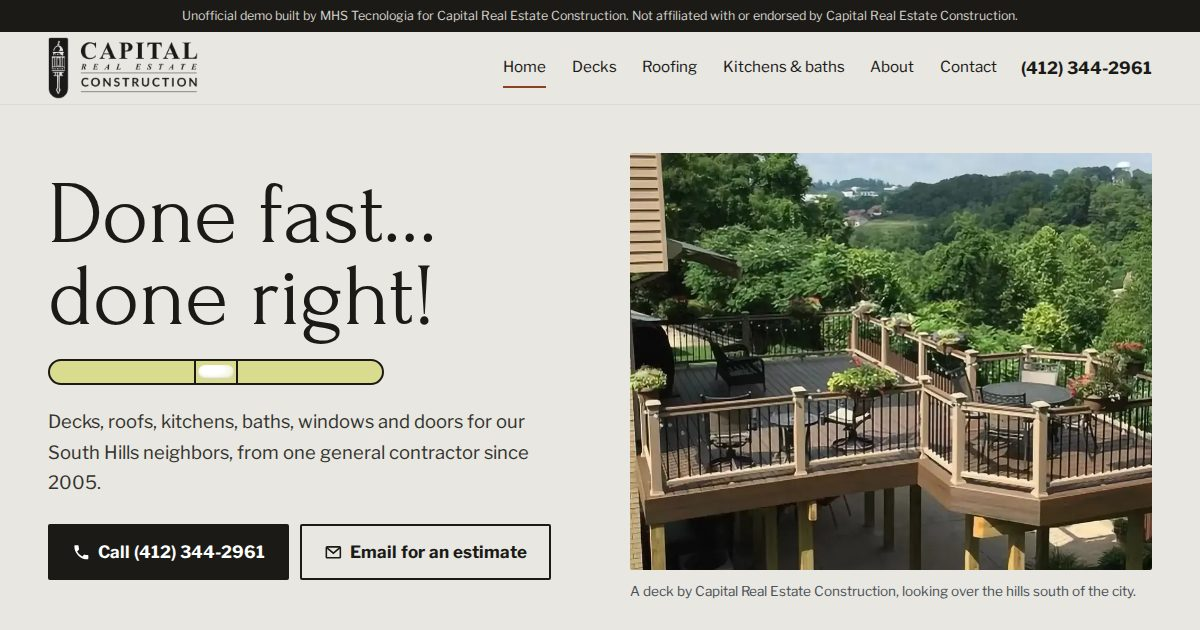
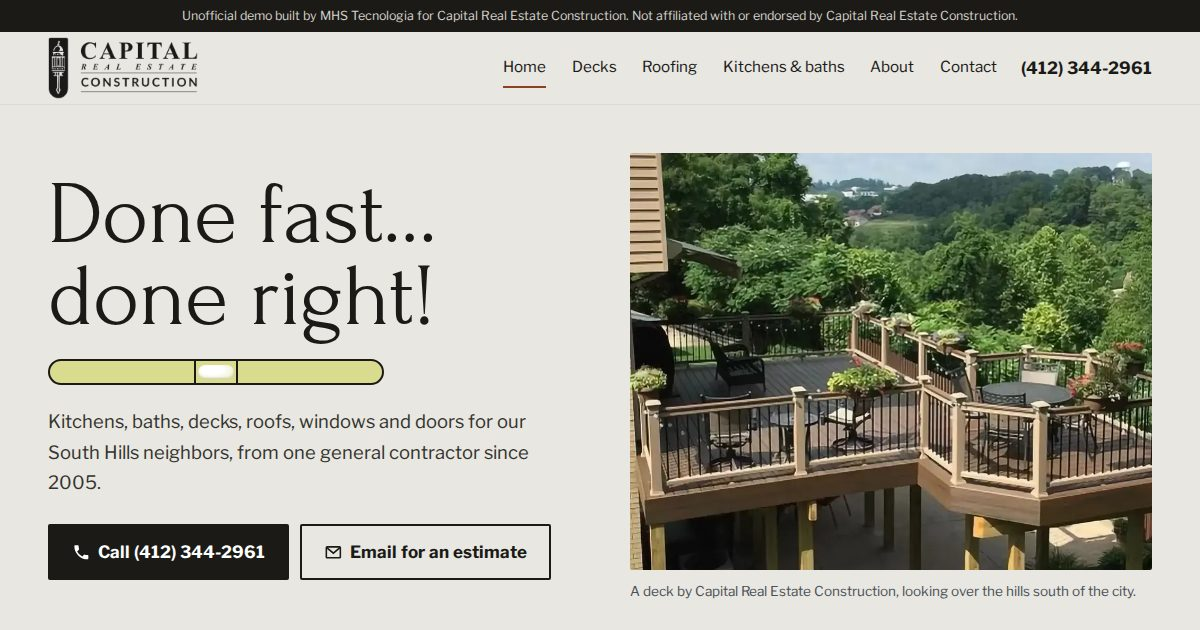
Previews: 79 ativos

Changed region(s): [[0.0308, 0.6635, 0.4317, 0.6937]]

diff --git a/capital-real-estate-construction-pittsburgh-pa/index.html b/capital-real-estate-construction-pittsburgh-pa/index.html
@@ -9,8 +9,8 @@
 <title>Capital Real Estate Construction | Decks, Roofing &amp; Remodeling, South Hills of Pittsburgh</title>
 <meta name="description" content="Decks, roofs, kitchens, baths, windows and doors for the South Hills of Pittsburgh. Done Fast… Done Right! Call (412) 344-2961.">
 <link rel="preload" as="font" type="font/woff2" href="fonts/forum.woff2" crossorigin>
-<link rel="preload" as="image" href="img/hero-m-800.webp" imagesrcset="img/hero-m-480.webp 480w, img/hero-m-800.webp 800w" imagesizes="100vw" media="(max-width: 860px)" fetchpriority="high">
-<link rel="preload" as="image" href="img/hero-1200.webp" imagesrcset="img/hero-800.webp 800w, img/hero-1200.webp 1200w" imagesizes="(max-width: 1240px) 46vw, 580px" media="(min-width: 861px)" fetchpriority="high">
+<link rel="preload" as="image" href="img/hero-m-800.webp" imagesrcset="img/hero-m-480.webp 480w, img/hero-m-800.webp 800w, img/hero-m-1080.webp 1080w" imagesizes="100vw" media="(max-width: 860px)" fetchpriority="high">
+<link rel="preload" as="image" href="img/hero-1200.webp" imagesrcset="img/hero-800.webp 800w, img/hero-1200.webp 1200w, img/hero-1350.webp 1350w" imagesizes="(max-width: 1240px) 46vw, 580px" media="(min-width: 861px)" fetchpriority="high">
 <style>@font-face{font-family:"Forum";font-weight:400;font-display:swap;src:url(fonts/forum.woff2) format("woff2")}
 @font-face{font-family:"Libre Franklin";font-weight:100 900;font-display:swap;src:url(fonts/franklin.woff2) format("woff2")}
 /* Their crest is black; the decks are cedar-stained; the South Hills behind them are deep green. */
@@ -116,11 +116,14 @@ p{max-width:38em}
 .trade .more{display:inline-block;margin-top:.7rem;font-weight:700;color:var(--cedar);text-decoration:underline;text-underline-offset:.2em}
 .trade .ph{overflow:hidden}
 @media (hover:hover) and (prefers-reduced-motion:no-preference){.trade:hover img{transform:scale(1.03)}}
-.inside{display:grid;grid-template-columns:1.1fr 1fr;gap:2rem;align-items:center;margin-top:clamp(1rem,2.5vw,2rem);background:var(--ink);color:#e9e7e1;padding:clamp(1.6rem,4vw,2.8rem);border-radius:2px}
-.inside ul{list-style:none;padding:0;columns:2;column-gap:1.5rem}
-.inside li{font-family:"Forum",serif;font-size:1.45rem;line-height:1.25;padding:.35rem 0;border-bottom:1px solid #3a3833;break-inside:avoid}
-.inside .more{display:inline-block;margin-top:.9rem;color:#f0b892;font-weight:700;text-decoration:underline;text-underline-offset:.2em}
-@media (max-width:860px){.grid2,.inside{grid-template-columns:1fr}.inside li{font-size:1.25rem}}
+.kit{display:grid;grid-template-columns:1fr 1.35fr;gap:clamp(1.5rem,4vw,3rem);align-items:center;background:var(--ink);color:#e9e7e1;padding:clamp(1.25rem,3.5vw,2.6rem);border-radius:2px;margin-bottom:clamp(1rem,2.5vw,2rem);text-decoration:none}
+.kit h3{color:#fff;font-size:clamp(1.9rem,3.4vw,2.7rem);margin-bottom:.8rem}
+.kit .also{font-size:.9rem;color:#bdbab2;margin-top:.8rem}
+.kit .more{display:inline-block;margin-top:1rem;color:#f0b892;font-weight:700;text-decoration:underline;text-underline-offset:.2em}
+.kit .pics{display:grid;grid-template-columns:1fr 1fr;gap:.6rem}
+.kit .pics img{width:100%;aspect-ratio:3/2;object-fit:cover;border-radius:2px}
+.kit .pics img:first-child{grid-column:1/-1}
+@media (max-width:860px){.grid2,.kit{grid-template-columns:1fr}.kit .pics{order:-1}}
 /* Roof maintenance */
 .plan{background:var(--white);padding:clamp(3rem,7vw,5.5rem) 0}
 .plan .wrap{display:grid;grid-template-columns:1fr 1.1fr;gap:clamp(2rem,5vw,4rem);align-items:start}
@@ -195,6 +198,9 @@ p{max-width:38em}
 .key li{display:flex;align-items:baseline;gap:.6rem;border-bottom:1px solid var(--mortar-2);padding:.35rem 0}
 .key i{width:.9rem;height:.9rem;flex:none;background:var(--c);border:1.5px solid var(--ink);transform:translateY(.1rem)}
 .key b{margin-left:auto;font-variant-numeric:tabular-nums}
+.kitrow{display:grid;grid-template-columns:repeat(3,1fr);gap:clamp(.6rem,1.5vw,1rem)}
+.kitrow img{width:100%;aspect-ratio:3/2;object-fit:cover;border-radius:2px}
+@media (max-width:860px){.kitrow{grid-template-columns:1fr}}
 .list2{columns:2;column-gap:2rem;padding-left:1.1rem}
 .list2 li{margin-bottom:.5rem;break-inside:avoid}
 @media (max-width:640px){.list2{columns:1}}
@@ -245,13 +251,13 @@ p{max-width:38em}
     <div class="copy">
       <h1><span>Done fast…</span><span>done right!</span></h1>
       <div class="level" aria-hidden="true"><i></i></div>
-      <p class="lede">Decks, roofs, kitchens, baths, windows and doors for our South Hills neighbors, from one general contractor since 2005.</p>
+      <p class="lede">Kitchens, baths, decks, roofs, windows and doors for our South Hills neighbors, from one general contractor since 2005.</p>
       <div class="btns"><a class="btn solid" href="tel:+14123442961"><svg viewBox="0 0 24 24" aria-hidden="true" fill="currentColor"><path d="M6.6 10.8a15.2 15.2 0 0 0 6.6 6.6l2.2-2.2a1 1 0 0 1 1-.25 11.4 11.4 0 0 0 3.6.57 1 1 0 0 1 1 1V20a1 1 0 0 1-1 1A17 17 0 0 1 3 4a1 1 0 0 1 1-1h3.5a1 1 0 0 1 1 1c0 1.25.2 2.45.57 3.57a1 1 0 0 1-.25 1z"/></svg>Call (412) 344-2961</a><a class="btn line" href="mailto:info@capitalrealestateconstruction.com?subject=Estimate%20request"><svg viewBox="0 0 24 24" aria-hidden="true" fill="none" stroke="currentColor" stroke-width="2"><rect x="3" y="5" width="18" height="14" rx="1"/><path d="m3.5 6 8.5 7 8.5-7"/></svg>Email for an estimate</a></div>
     </div>
     <figure class="shot">
       <picture>
-        <source media="(max-width: 860px)" srcset="img/hero-m-480.webp 480w, img/hero-m-800.webp 800w" sizes="100vw" width="800" height="600">
-        <img src="img/hero-1200.webp" srcset="img/hero-800.webp 800w, img/hero-1200.webp 1200w" sizes="(max-width: 1240px) 46vw, 580px" width="1200" height="960" alt="A two-level composite deck with black balusters and flower boxes, looking out over a wooded South Hills valley" fetchpriority="high">
+        <source media="(max-width: 860px)" srcset="img/hero-m-480.webp 480w, img/hero-m-800.webp 800w, img/hero-m-1080.webp 1080w" sizes="100vw" width="800" height="600">
+        <img src="img/hero-1200.webp" srcset="img/hero-800.webp 800w, img/hero-1200.webp 1200w, img/hero-1350.webp 1350w" sizes="(max-width: 1240px) 46vw, 580px" width="1200" height="960" alt="A two-level composite deck with black balusters and flower boxes, looking out over a wooded South Hills valley" fetchpriority="high">
       </picture>
       <figcaption>A deck by Capital Real Estate Construction, looking over the hills south of the city.</figcaption>
     </figure>
@@ -285,26 +291,32 @@ p{max-width:38em}
 
 <section class="trades">
   <div class="wrap">
-    <h2>Outside the house, and in it</h2>
-    <p class="intro">An exterior division and an interior division, under one roof.</p>
+    <h2>Kitchens, baths &amp; more</h2>
+    <p class="intro">An interior division and an exterior division, under one roof.</p>
+    <a class="kit" href="remodeling.html">
+      <div>
+        <h3>Hundreds of upscale kitchens for our South Hills neighbors</h3>
+        <p>Our design team can work from your idea or draw the room from scratch, then install all of it: cabinets, granite, backsplash, flooring and paint. Some full high-end kitchens are done in as little as 4 weeks.*</p>
+        <p class="also">Also inside: bathrooms, cabinets, windows &amp; doors, basements and flooring.</p>
+        <span class="more">See kitchens, baths, windows and doors</span>
+        <p class="also" style="margin-top:1rem">*With in-stock flooring, backsplash, granite, Forevermark cabinetry and paint.</p>
+      </div>
+      <div class="pics">
+        <img src="img/kit-espresso-480.webp" srcset="img/kit-espresso-480.webp 480w, img/kit-espresso-768.webp 768w" sizes="(max-width: 860px) 100vw, 640px" width="768" height="515" alt="A kitchen with dark espresso cabinets, a stainless range and a tumbled stone backsplash" loading="lazy" decoding="async">
+        <img src="img/kit-grey-480.webp" srcset="img/kit-grey-480.webp 480w, img/kit-grey-768.webp 768w" sizes="(max-width: 860px) 50vw, 320px" width="768" height="515" alt="A grey kitchen with a black granite island, white stools and a crystal chandelier" loading="lazy" decoding="async">
+        <img src="img/kit-white-480.webp" srcset="img/kit-white-480.webp 480w, img/kit-white-768.webp 768w" sizes="(max-width: 860px) 50vw, 320px" width="768" height="515" alt="White cabinets with a grey arabesque tile backsplash and a double sink" loading="lazy" decoding="async">
+      </div>
+    </a>
     <div class="grid2">
       <a class="trade" href="decks.html">
-        <div class="ph"><img src="img/deck-rail-560.webp" srcset="img/deck-rail-560.webp 560w, img/deck-rail-900.webp 900w" sizes="(max-width: 860px) 100vw, 580px" width="900" height="600" alt="A raised deck with a cedar-tone floor, brown post caps and black balusters" loading="lazy" decoding="async"></div>
+        <div class="ph"><img src="img/deck-rail-560.webp" srcset="img/deck-rail-560.webp 560w, img/deck-rail-900.webp 900w, img/deck-rail-1200.webp 1200w" sizes="(max-width: 860px) 100vw, 580px" width="1200" height="800" alt="A raised deck with a cedar-tone floor, brown post caps and black balusters" loading="lazy" decoding="async"></div>
         <div class="t"><h3>Decks</h3><p>Treated lumber, cedar, composite and Trex, or PVC. Designed and built by Pittsburgh’s deck builder, permits included.</p><span class="more">See deck materials and costs</span></div>
       </a>
       <a class="trade" href="roofing.html">
-        <div class="ph"><img src="img/roof-tearoff-600.webp" srcset="img/roof-tearoff-600.webp 600w, img/roof-tearoff-1000.webp 1000w" sizes="(max-width: 860px) 100vw, 580px" width="1000" height="750" alt="Bundles of GAF shingles staged on a roof over new underlayment, mid-replacement" loading="lazy" decoding="async" style="aspect-ratio:3/2"></div>
+        <div class="ph"><img src="img/roof-tearoff-600.webp" srcset="img/roof-tearoff-600.webp 600w, img/roof-tearoff-1000.webp 1000w, img/roof-tearoff-1440.webp 1440w" sizes="(max-width: 860px) 100vw, 580px" width="1440" height="1080" alt="Bundles of GAF shingles staged on a roof over new underlayment, mid-replacement" loading="lazy" decoding="async" style="aspect-ratio:3/2"></div>
         <div class="t"><h3>Roofing</h3><p>Shingled, steel and flat rubber roofs, repaired or replaced with GAF products. Box gutters too.</p><span class="more">See roofing and the maintenance plan</span></div>
       </a>
     </div>
-    <a class="inside" href="remodeling.html" style="text-decoration:none">
-      <div>
-        <h3 style="color:#fff;font-size:clamp(1.9rem,3.4vw,2.6rem)">Inside: hundreds of upscale kitchens and counting</h3>
-        <p style="margin-top:.7rem">Our design team can work from your idea or draw the room from scratch, then install it, from cabinets to faucets.</p>
-        <span class="more">See kitchens, baths, windows and doors</span>
-      </div>
-      <ul><li>Kitchens</li><li>Bathrooms</li><li>Cabinets</li><li>Windows &amp; doors</li><li>Basements</li><li>Flooring</li></ul>
-    </a>
   </div>
 </section>
 

diff --git a/capital-real-estate-construction-pittsburgh-pa/decks.html b/capital-real-estate-construction-pittsburgh-pa/decks.html
@@ -115,11 +115,14 @@ p{max-width:38em}
 .trade .more{display:inline-block;margin-top:.7rem;font-weight:700;color:var(--cedar);text-decoration:underline;text-underline-offset:.2em}
 .trade .ph{overflow:hidden}
 @media (hover:hover) and (prefers-reduced-motion:no-preference){.trade:hover img{transform:scale(1.03)}}
-.inside{display:grid;grid-template-columns:1.1fr 1fr;gap:2rem;align-items:center;margin-top:clamp(1rem,2.5vw,2rem);background:var(--ink);color:#e9e7e1;padding:clamp(1.6rem,4vw,2.8rem);border-radius:2px}
-.inside ul{list-style:none;padding:0;columns:2;column-gap:1.5rem}
-.inside li{font-family:"Forum",serif;font-size:1.45rem;line-height:1.25;padding:.35rem 0;border-bottom:1px solid #3a3833;break-inside:avoid}
-.inside .more{display:inline-block;margin-top:.9rem;color:#f0b892;font-weight:700;text-decoration:underline;text-underline-offset:.2em}
-@media (max-width:860px){.grid2,.inside{grid-template-columns:1fr}.inside li{font-size:1.25rem}}
+.kit{display:grid;grid-template-columns:1fr 1.35fr;gap:clamp(1.5rem,4vw,3rem);align-items:center;background:var(--ink);color:#e9e7e1;padding:clamp(1.25rem,3.5vw,2.6rem);border-radius:2px;margin-bottom:clamp(1rem,2.5vw,2rem);text-decoration:none}
+.kit h3{color:#fff;font-size:clamp(1.9rem,3.4vw,2.7rem);margin-bottom:.8rem}
+.kit .also{font-size:.9rem;color:#bdbab2;margin-top:.8rem}
+.kit .more{display:inline-block;margin-top:1rem;color:#f0b892;font-weight:700;text-decoration:underline;text-underline-offset:.2em}
+.kit .pics{display:grid;grid-template-columns:1fr 1fr;gap:.6rem}
+.kit .pics img{width:100%;aspect-ratio:3/2;object-fit:cover;border-radius:2px}
+.kit .pics img:first-child{grid-column:1/-1}
+@media (max-width:860px){.grid2,.kit{grid-template-columns:1fr}.kit .pics{order:-1}}
 /* Roof maintenance */
 .plan{background:var(--white);padding:clamp(3rem,7vw,5.5rem) 0}
 .plan .wrap{display:grid;grid-template-columns:1fr 1.1fr;gap:clamp(2rem,5vw,4rem);align-items:start}
@@ -194,6 +197,9 @@ p{max-width:38em}
 .key li{display:flex;align-items:baseline;gap:.6rem;border-bottom:1px solid var(--mortar-2);padding:.35rem 0}
 .key i{width:.9rem;height:.9rem;flex:none;background:var(--c);border:1.5px solid var(--ink);transform:translateY(.1rem)}
 .key b{margin-left:auto;font-variant-numeric:tabular-nums}
+.kitrow{display:grid;grid-template-columns:repeat(3,1fr);gap:clamp(.6rem,1.5vw,1rem)}
+.kitrow img{width:100%;aspect-ratio:3/2;object-fit:cover;border-radius:2px}
+@media (max-width:860px){.kitrow{grid-template-columns:1fr}}
 .list2{columns:2;column-gap:2rem;padding-left:1.1rem}
 .list2 li{margin-bottom:.5rem;break-inside:avoid}
 @media (max-width:640px){.list2{columns:1}}
@@ -239,7 +245,7 @@ p{max-width:38em}
       <p>A deck is an extension of your living space: morning coffee in the sun, or the evening view. We design and build it, and handle the permit.</p>
       <div class="btns"><a class="btn solid" href="tel:+14123442961"><svg viewBox="0 0 24 24" aria-hidden="true" fill="currentColor"><path d="M6.6 10.8a15.2 15.2 0 0 0 6.6 6.6l2.2-2.2a1 1 0 0 1 1-.25 11.4 11.4 0 0 0 3.6.57 1 1 0 0 1 1 1V20a1 1 0 0 1-1 1A17 17 0 0 1 3 4a1 1 0 0 1 1-1h3.5a1 1 0 0 1 1 1c0 1.25.2 2.45.57 3.57a1 1 0 0 1-.25 1z"/></svg>Call (412) 344-2961</a><a class="btn line" href="mailto:info@capitalrealestateconstruction.com?subject=Estimate%20request"><svg viewBox="0 0 24 24" aria-hidden="true" fill="none" stroke="currentColor" stroke-width="2"><rect x="3" y="5" width="18" height="14" rx="1"/><path d="m3.5 6 8.5 7 8.5-7"/></svg>Email for an estimate</a></div>
     </div>
-    <img src="img/deck-composite-560.webp" srcset="img/deck-composite-560.webp 560w, img/deck-composite-900.webp 900w" sizes="(max-width: 860px) 100vw, 580px" width="900" height="600" alt="A long composite deck in a dark grey-brown with black aluminum railing, along a brick house above a wooded slope" decoding="async" loading="eager" fetchpriority="high">
+    <img src="img/deck-composite-560.webp" srcset="img/deck-composite-560.webp 560w, img/deck-composite-900.webp 900w, img/deck-composite-1200.webp 1200w" sizes="(max-width: 860px) 100vw, 580px" width="1200" height="800" alt="A long composite deck in a dark grey-brown with black aluminum railing, along a brick house above a wooded slope" decoding="async" loading="eager" fetchpriority="high">
   </div>
 </section>
 <div data-sentinel></div>
@@ -262,8 +268,8 @@ p{max-width:38em}
 <section class="band">
   <div class="wrap">
     <div class="gallery">
-      <div class="tall"><img src="img/hero-800.webp" srcset="img/hero-800.webp 800w, img/hero-1200.webp 1200w" sizes="(max-width: 860px) 100vw, 780px" width="1200" height="960" alt="A two-level deck with flower boxes overlooking a green valley" loading="lazy" decoding="async"></div>
-      <img src="img/deck-rail-560.webp" srcset="img/deck-rail-560.webp 560w, img/deck-rail-900.webp 900w" sizes="(max-width: 860px) 100vw, 390px" width="900" height="600" alt="A raised deck with brown post caps and black balusters" loading="lazy" decoding="async">
+      <div class="tall"><img src="img/hero-800.webp" srcset="img/hero-800.webp 800w, img/hero-1200.webp 1200w, img/hero-1350.webp 1350w" sizes="(max-width: 860px) 100vw, 780px" width="1350" height="1080" alt="A two-level deck with flower boxes overlooking a green valley" loading="lazy" decoding="async"></div>
+      <img src="img/deck-rail-560.webp" srcset="img/deck-rail-560.webp 560w, img/deck-rail-900.webp 900w, img/deck-rail-1200.webp 1200w" sizes="(max-width: 860px) 100vw, 390px" width="1200" height="800" alt="A raised deck with brown post caps and black balusters" loading="lazy" decoding="async">
       <img src="img/deck-porch-480.webp" srcset="img/deck-porch-480.webp 480w, img/deck-porch-768.webp 768w" sizes="(max-width: 860px) 100vw, 390px" width="768" height="1024" alt="A covered deck with a ceiling fan, outdoor sofa and wide wood-tone boards" loading="lazy" decoding="async" style="aspect-ratio:3/2;object-position:50% 70%">
     </div>
   </div>
@@ -276,7 +282,7 @@ p{max-width:38em}
       <p style="margin-top:.8rem">Requesting an estimate is the most accurate way to price your deck. Here is the general picture.</p>
     </div>
     <div class="qa">
-      <details open><summary>What does a deck cost?</summary><p>Generally from around $20 to $50+ per square foot. Height and how complex the build is also affect the cost.</p></details>
+      <details open><summary>What does a deck cost?</summary><p>Generally from around $20 to $50+ per square foot. Height and complexity also affect the cost.</p></details>
       <details><summary>Do I need a permit?</summary><p>Assume a building permit is required. As your licensed and insured contractor, we handle the permitting and municipal compliance as part of the job.</p></details>
       <details><summary>How long does it take?</summary><p>With permits and planning done and all materials on site, most decks take about 1 to 3 weeks. Permits, inspections and weather can cause delays.</p></details>
       <details><summary>Can you add a door to reach it?</summary><p>Yes. As a full service general contractor we handle every building trade, so a new deck off your second-story family room can come with the door to get to it.</p></details>

diff --git a/capital-real-estate-construction-pittsburgh-pa/roofing.html b/capital-real-estate-construction-pittsburgh-pa/roofing.html
@@ -115,11 +115,14 @@ p{max-width:38em}
 .trade .more{display:inline-block;margin-top:.7rem;font-weight:700;color:var(--cedar);text-decoration:underline;text-underline-offset:.2em}
 .trade .ph{overflow:hidden}
 @media (hover:hover) and (prefers-reduced-motion:no-preference){.trade:hover img{transform:scale(1.03)}}
-.inside{display:grid;grid-template-columns:1.1fr 1fr;gap:2rem;align-items:center;margin-top:clamp(1rem,2.5vw,2rem);background:var(--ink);color:#e9e7e1;padding:clamp(1.6rem,4vw,2.8rem);border-radius:2px}
-.inside ul{list-style:none;padding:0;columns:2;column-gap:1.5rem}
-.inside li{font-family:"Forum",serif;font-size:1.45rem;line-height:1.25;padding:.35rem 0;border-bottom:1px solid #3a3833;break-inside:avoid}
-.inside .more{display:inline-block;margin-top:.9rem;color:#f0b892;font-weight:700;text-decoration:underline;text-underline-offset:.2em}
-@media (max-width:860px){.grid2,.inside{grid-template-columns:1fr}.inside li{font-size:1.25rem}}
+.kit{display:grid;grid-template-columns:1fr 1.35fr;gap:clamp(1.5rem,4vw,3rem);align-items:center;background:var(--ink);color:#e9e7e1;padding:clamp(1.25rem,3.5vw,2.6rem);border-radius:2px;margin-bottom:clamp(1rem,2.5vw,2rem);text-decoration:none}
+.kit h3{color:#fff;font-size:clamp(1.9rem,3.4vw,2.7rem);margin-bottom:.8rem}
+.kit .also{font-size:.9rem;color:#bdbab2;margin-top:.8rem}
+.kit .more{display:inline-block;margin-top:1rem;color:#f0b892;font-weight:700;text-decoration:underline;text-underline-offset:.2em}
+.kit .pics{display:grid;grid-template-columns:1fr 1fr;gap:.6rem}
+.kit .pics img{width:100%;aspect-ratio:3/2;object-fit:cover;border-radius:2px}
+.kit .pics img:first-child{grid-column:1/-1}
+@media (max-width:860px){.grid2,.kit{grid-template-columns:1fr}.kit .pics{order:-1}}
 /* Roof maintenance */
 .plan{background:var(--white);padding:clamp(3rem,7vw,5.5rem) 0}
 .plan .wrap{display:grid;grid-template-columns:1fr 1.1fr;gap:clamp(2rem,5vw,4rem);align-items:start}
@@ -194,6 +197,9 @@ p{max-width:38em}
 .key li{display:flex;align-items:baseline;gap:.6rem;border-bottom:1px solid var(--mortar-2);padding:.35rem 0}
 .key i{width:.9rem;height:.9rem;flex:none;background:var(--c);border:1.5px solid var(--ink);transform:translateY(.1rem)}
 .key b{margin-left:auto;font-variant-numeric:tabular-nums}
+.kitrow{display:grid;grid-template-columns:repeat(3,1fr);gap:clamp(.6rem,1.5vw,1rem)}
+.kitrow img{width:100%;aspect-ratio:3/2;object-fit:cover;border-radius:2px}
+@media (max-width:860px){.kitrow{grid-template-columns:1fr}}
 .list2{columns:2;column-gap:2rem;padding-left:1.1rem}
 .list2 li{margin-bottom:.5rem;break-inside:avoid}
 @media (max-width:640px){.list2{columns:1}}
@@ -239,7 +245,7 @@ p{max-width:38em}
       <p>Your home’s first line of defense. Insured roofing repairs and replacements, done on time and within budget. Our roofers respect your yard, and your neighbors’ yards too.</p>
       <div class="btns"><a class="btn solid" href="tel:+14123442961"><svg viewBox="0 0 24 24" aria-hidden="true" fill="currentColor"><path d="M6.6 10.8a15.2 15.2 0 0 0 6.6 6.6l2.2-2.2a1 1 0 0 1 1-.25 11.4 11.4 0 0 0 3.6.57 1 1 0 0 1 1 1V20a1 1 0 0 1-1 1A17 17 0 0 1 3 4a1 1 0 0 1 1-1h3.5a1 1 0 0 1 1 1c0 1.25.2 2.45.57 3.57a1 1 0 0 1-.25 1z"/></svg>Call (412) 344-2961</a><a class="btn line" href="mailto:info@capitalrealestateconstruction.com?subject=Estimate%20request"><svg viewBox="0 0 24 24" aria-hidden="true" fill="none" stroke="currentColor" stroke-width="2"><rect x="3" y="5" width="18" height="14" rx="1"/><path d="m3.5 6 8.5 7 8.5-7"/></svg>Email for an estimate</a></div>
     </div>
-    <img src="img/roof-tearoff-600.webp" srcset="img/roof-tearoff-600.webp 600w, img/roof-tearoff-1000.webp 1000w" sizes="(max-width: 860px) 100vw, 580px" width="1000" height="750" alt="GAF shingle bundles staged on new underlayment during a roof replacement" fetchpriority="high" decoding="async">
+    <img src="img/roof-tearoff-600.webp" srcset="img/roof-tearoff-600.webp 600w, img/roof-tearoff-1000.webp 1000w, img/roof-tearoff-1440.webp 1440w" sizes="(max-width: 860px) 100vw, 580px" width="1440" height="1080" alt="GAF shingle bundles staged on new underlayment during a roof replacement" fetchpriority="high" decoding="async">
   </div>
 </section>
 <div data-sentinel></div>
@@ -270,12 +276,6 @@ p{max-width:38em}
       <li>Missing, cracked or curled shingles</li>
     </ul>
   </div>
-  <div class="wrap" style="margin-top:2.5rem">
-    <div class="gallery" style="grid-template-columns:1fr 1fr">
-      <img src="img/roof-crew-m-640.webp" srcset="img/roof-crew-m-640.webp 640w, img/roof-crew-m-960.webp 960w" sizes="(max-width: 860px) 100vw, 590px" width="960" height="600" alt="A roofing crew stripping old shingles down to the boards" loading="lazy" decoding="async" style="aspect-ratio:3/2">
-      <img src="img/roof-steel-560.webp" srcset="img/roof-steel-560.webp 560w, img/roof-steel-768.webp 768w" sizes="(max-width: 860px) 100vw, 590px" width="768" height="515" alt="A dark standing-seam steel roof on a brick house" loading="lazy" decoding="async" style="aspect-ratio:3/2">
-    </div>
-  </div>
 </section>
 
 <section class="plan">
@@ -288,8 +288,9 @@ p{max-width:38em}
       <div class="btns" style="margin-top:1.5rem"><a class="btn solid" href="tel:+14123442961"><svg viewBox="0 0 24 24" aria-hidden="true" fill="currentColor"><path d="M6.6 10.8a15.2 15.2 0 0 0 6.6 6.6l2.2-2.2a1 1 0 0 1 1-.25 11.4 11.4 0 0 0 3.6.57 1 1 0 0 1 1 1V20a1 1 0 0 1-1 1A17 17 0 0 1 3 4a1 1 0 0 1 1-1h3.5a1 1 0 0 1 1 1c0 1.25.2 2.45.57 3.57a1 1 0 0 1-.25 1z"/></svg>Enroll by phone</a></div>
     </div>
     <div>
-      <p class="serif" style="font-size:1.9rem;line-height:1.15">“It is critical to stay proactive on roof maintenance, and avoid the unplanned, middle-of-winter emergency fix.”</p>
-      <p class="small" style="margin-top:.8rem">From our roofing page.</p>
+      <p class="serif" style="font-size:1.7rem;line-height:1.18">“It is critical to stay proactive on roof maintenance and upkeep to avoid the unplanned, middle of winter emergency fix that will undoubtedly cost you thousands.”</p>
+      <p class="small" style="margin:.8rem 0 1.4rem">From our roofing page.</p>
+      <img src="img/roof-crew-m-640.webp" srcset="img/roof-crew-m-640.webp 640w, img/roof-crew-m-960.webp 960w" sizes="(max-width: 860px) 100vw, 620px" width="960" height="600" alt="A roofing crew stripping old shingles down to the boards on a sloped roof" loading="lazy" decoding="async">
     </div>
   </div>
 </section>

diff --git a/capital-real-estate-construction-pittsburgh-pa/remodeling.html b/capital-real-estate-construction-pittsburgh-pa/remodeling.html
@@ -115,11 +115,14 @@ p{max-width:38em}
 .trade .more{display:inline-block;margin-top:.7rem;font-weight:700;color:var(--cedar);text-decoration:underline;text-underline-offset:.2em}
 .trade .ph{overflow:hidden}
 @media (hover:hover) and (prefers-reduced-motion:no-preference){.trade:hover img{transform:scale(1.03)}}
-.inside{display:grid;grid-template-columns:1.1fr 1fr;gap:2rem;align-items:center;margin-top:clamp(1rem,2.5vw,2rem);background:var(--ink);color:#e9e7e1;padding:clamp(1.6rem,4vw,2.8rem);border-radius:2px}
-.inside ul{list-style:none;padding:0;columns:2;column-gap:1.5rem}
-.inside li{font-family:"Forum",serif;font-size:1.45rem;line-height:1.25;padding:.35rem 0;border-bottom:1px solid #3a3833;break-inside:avoid}
-.inside .more{display:inline-block;margin-top:.9rem;color:#f0b892;font-weight:700;text-decoration:underline;text-underline-offset:.2em}
-@media (max-width:860px){.grid2,.inside{grid-template-columns:1fr}.inside li{font-size:1.25rem}}
+.kit{display:grid;grid-template-columns:1fr 1.35fr;gap:clamp(1.5rem,4vw,3rem);align-items:center;background:var(--ink);color:#e9e7e1;padding:clamp(1.25rem,3.5vw,2.6rem);border-radius:2px;margin-bottom:clamp(1rem,2.5vw,2rem);text-decoration:none}
+.kit h3{color:#fff;font-size:clamp(1.9rem,3.4vw,2.7rem);margin-bottom:.8rem}
+.kit .also{font-size:.9rem;color:#bdbab2;margin-top:.8rem}
+.kit .more{display:inline-block;margin-top:1rem;color:#f0b892;font-weight:700;text-decoration:underline;text-underline-offset:.2em}
+.kit .pics{display:grid;grid-template-columns:1fr 1fr;gap:.6rem}
+.kit .pics img{width:100%;aspect-ratio:3/2;object-fit:cover;border-radius:2px}
+.kit .pics img:first-child{grid-column:1/-1}
+@media (max-width:860px){.grid2,.kit{grid-template-columns:1fr}.kit .pics{order:-1}}
 /* Roof maintenance */
 .plan{background:var(--white);padding:clamp(3rem,7vw,5.5rem) 0}
 .plan .wrap{display:grid;grid-template-columns:1fr 1.1fr;gap:clamp(2rem,5vw,4rem);align-items:start}
@@ -194,6 +197,9 @@ p{max-width:38em}
 .key li{display:flex;align-items:baseline;gap:.6rem;border-bottom:1px solid var(--mortar-2);padding:.35rem 0}
 .key i{width:.9rem;height:.9rem;flex:none;background:var(--c);border:1.5px solid var(--ink);transform:translateY(.1rem)}
 .key b{margin-left:auto;font-variant-numeric:tabular-nums}
+.kitrow{display:grid;grid-template-columns:repeat(3,1fr);gap:clamp(.6rem,1.5vw,1rem)}
+.kitrow img{width:100%;aspect-ratio:3/2;object-fit:cover;border-radius:2px}
+@media (max-width:860px){.kitrow{grid-template-columns:1fr}}
 .list2{columns:2;column-gap:2rem;padding-left:1.1rem}
 .list2 li{margin-bottom:.5rem;break-inside:avoid}
 @media (max-width:640px){.list2{columns:1}}
@@ -240,6 +246,17 @@ p{max-width:38em}
   </div>
 </section>
 <div data-sentinel></div>
+
+<section class="band" style="padding-top:0">
+  <div class="wrap">
+    <div class="kitrow">
+      <img src="img/kit-espresso-480.webp" srcset="img/kit-espresso-480.webp 480w, img/kit-espresso-768.webp 768w" sizes="(max-width: 860px) 100vw, 400px" width="768" height="515" alt="A kitchen with dark espresso cabinets, a stainless range and a tumbled stone backsplash" loading="lazy" decoding="async">
+      <img src="img/kit-grey-480.webp" srcset="img/kit-grey-480.webp 480w, img/kit-grey-768.webp 768w" sizes="(max-width: 860px) 100vw, 400px" width="768" height="515" alt="A grey kitchen with a black granite island, white stools and a crystal chandelier" loading="lazy" decoding="async">
+      <img src="img/kit-white-480.webp" srcset="img/kit-white-480.webp 480w, img/kit-white-768.webp 768w" sizes="(max-width: 860px) 100vw, 400px" width="768" height="515" alt="White cabinets with a grey arabesque tile backsplash and a double sink" loading="lazy" decoding="async">
+    </div>
+    <p class="small" style="margin-top:.7rem">Three of our kitchens, from the photos on our kitchen page.</p>
+  </div>
+</section>
 
 <section class="band valley">
   <div class="wrap cols">

diff --git a/capital-real-estate-construction-pittsburgh-pa/contact.html b/capital-real-estate-construction-pittsburgh-pa/contact.html
@@ -115,11 +115,14 @@ p{max-width:38em}
 .trade .more{display:inline-block;margin-top:.7rem;font-weight:700;color:var(--cedar);text-decoration:underline;text-underline-offset:.2em}
 .trade .ph{overflow:hidden}
 @media (hover:hover) and (prefers-reduced-motion:no-preference){.trade:hover img{transform:scale(1.03)}}
-.inside{display:grid;grid-template-columns:1.1fr 1fr;gap:2rem;align-items:center;margin-top:clamp(1rem,2.5vw,2rem);background:var(--ink);color:#e9e7e1;padding:clamp(1.6rem,4vw,2.8rem);border-radius:2px}
-.inside ul{list-style:none;padding:0;columns:2;column-gap:1.5rem}
-.inside li{font-family:"Forum",serif;font-size:1.45rem;line-height:1.25;padding:.35rem 0;border-bottom:1px solid #3a3833;break-inside:avoid}
-.inside .more{display:inline-block;margin-top:.9rem;color:#f0b892;font-weight:700;text-decoration:underline;text-underline-offset:.2em}
-@media (max-width:860px){.grid2,.inside{grid-template-columns:1fr}.inside li{font-size:1.25rem}}
+.kit{display:grid;grid-template-columns:1fr 1.35fr;gap:clamp(1.5rem,4vw,3rem);align-items:center;background:var(--ink);color:#e9e7e1;padding:clamp(1.25rem,3.5vw,2.6rem);border-radius:2px;margin-bottom:clamp(1rem,2.5vw,2rem);text-decoration:none}
+.kit h3{color:#fff;font-size:clamp(1.9rem,3.4vw,2.7rem);margin-bottom:.8rem}
+.kit .also{font-size:.9rem;color:#bdbab2;margin-top:.8rem}
+.kit .more{display:inline-block;margin-top:1rem;color:#f0b892;font-weight:700;text-decoration:underline;text-underline-offset:.2em}
+.kit .pics{display:grid;grid-template-columns:1fr 1fr;gap:.6rem}
+.kit .pics img{width:100%;aspect-ratio:3/2;object-fit:cover;border-radius:2px}
+.kit .pics img:first-child{grid-column:1/-1}
+@media (max-width:860px){.grid2,.kit{grid-template-columns:1fr}.kit .pics{order:-1}}
 /* Roof maintenance */
 .plan{background:var(--white);padding:clamp(3rem,7vw,5.5rem) 0}
 .plan .wrap{display:grid;grid-template-columns:1fr 1.1fr;gap:clamp(2rem,5vw,4rem);align-items:start}
@@ -194,6 +197,9 @@ p{max-width:38em}
 .key li{display:flex;align-items:baseline;gap:.6rem;border-bottom:1px solid var(--mortar-2);padding:.35rem 0}
 .key i{width:.9rem;height:.9rem;flex:none;background:var(--c);border:1.5px solid var(--ink);transform:translateY(.1rem)}
 .key b{margin-left:auto;font-variant-numeric:tabular-nums}
+.kitrow{display:grid;grid-template-columns:repeat(3,1fr);gap:clamp(.6rem,1.5vw,1rem)}
+.kitrow img{width:100%;aspect-ratio:3/2;object-fit:cover;border-radius:2px}
+@media (max-width:860px){.kitrow{grid-template-columns:1fr}}
 .list2{columns:2;column-gap:2rem;padding-left:1.1rem}
 .list2 li{margin-bottom:.5rem;break-inside:avoid}
 @media (max-width:640px){.list2{columns:1}}
@@ -247,7 +253,12 @@ p{max-width:38em}
 <div data-sentinel></div>
 <section class="band white">
   <div class="wrap cols">
-    <div><h2>What to put in your email</h2></div>
+    <div><h2>What to put in your email</h2>
+      <figure style="margin-top:1.6rem">
+        <img src="img/storefront-800.webp" srcset="img/storefront-800.webp 800w, img/storefront-1400.webp 1400w" sizes="(max-width: 860px) 100vw, 580px" width="1400" height="787" alt="The Capital Real Estate Construction storefront sign: Roofing, Windows, Doors, Kitchens, Baths, 412-344-2961" loading="lazy" decoding="async">
+        <figcaption class="small" style="margin-top:.6rem">The sign out front, from our own photos.</figcaption>
+      </figure>
+    </div>
     <ul class="ticks">
       <li>Your name, phone and town</li>
       <li>The project: deck, roof, kitchen, bath, windows or doors</li>

diff --git a/capital-real-estate-construction-pittsburgh-pa/about.html b/capital-real-estate-construction-pittsburgh-pa/about.html
@@ -115,11 +115,14 @@ p{max-width:38em}
 .trade .more{display:inline-block;margin-top:.7rem;font-weight:700;color:var(--cedar);text-decoration:underline;text-underline-offset:.2em}
 .trade .ph{overflow:hidden}
 @media (hover:hover) and (prefers-reduced-motion:no-preference){.trade:hover img{transform:scale(1.03)}}
-.inside{display:grid;grid-template-columns:1.1fr 1fr;gap:2rem;align-items:center;margin-top:clamp(1rem,2.5vw,2rem);background:var(--ink);color:#e9e7e1;padding:clamp(1.6rem,4vw,2.8rem);border-radius:2px}
-.inside ul{list-style:none;padding:0;columns:2;column-gap:1.5rem}
-.inside li{font-family:"Forum",serif;font-size:1.45rem;line-height:1.25;padding:.35rem 0;border-bottom:1px solid #3a3833;break-inside:avoid}
-.inside .more{display:inline-block;margin-top:.9rem;color:#f0b892;font-weight:700;text-decoration:underline;text-underline-offset:.2em}
-@media (max-width:860px){.grid2,.inside{grid-template-columns:1fr}.inside li{font-size:1.25rem}}
+.kit{display:grid;grid-template-columns:1fr 1.35fr;gap:clamp(1.5rem,4vw,3rem);align-items:center;background:var(--ink);color:#e9e7e1;padding:clamp(1.25rem,3.5vw,2.6rem);border-radius:2px;margin-bottom:clamp(1rem,2.5vw,2rem);text-decoration:none}
+.kit h3{color:#fff;font-size:clamp(1.9rem,3.4vw,2.7rem);margin-bottom:.8rem}
+.kit .also{font-size:.9rem;color:#bdbab2;margin-top:.8rem}
+.kit .more{display:inline-block;margin-top:1rem;color:#f0b892;font-weight:700;text-decoration:underline;text-underline-offset:.2em}
+.kit .pics{display:grid;grid-template-columns:1fr 1fr;gap:.6rem}
+.kit .pics img{width:100%;aspect-ratio:3/2;object-fit:cover;border-radius:2px}
+.kit .pics img:first-child{grid-column:1/-1}
+@media (max-width:860px){.grid2,.kit{grid-template-columns:1fr}.kit .pics{order:-1}}
 /* Roof maintenance */
 .plan{background:var(--white);padding:clamp(3rem,7vw,5.5rem) 0}
 .plan .wrap{display:grid;grid-template-columns:1fr 1.1fr;gap:clamp(2rem,5vw,4rem);align-items:start}
@@ -194,6 +197,9 @@ p{max-width:38em}
 .key li{display:flex;align-items:baseline;gap:.6rem;border-bottom:1px solid var(--mortar-2);padding:.35rem 0}
 .key i{width:.9rem;height:.9rem;flex:none;background:var(--c);border:1.5px solid var(--ink);transform:translateY(.1rem)}
 .key b{margin-left:auto;font-variant-numeric:tabular-nums}
+.kitrow{display:grid;grid-template-columns:repeat(3,1fr);gap:clamp(.6rem,1.5vw,1rem)}
+.kitrow img{width:100%;aspect-ratio:3/2;object-fit:cover;border-radius:2px}
+@media (max-width:860px){.kitrow{grid-template-columns:1fr}}
 .list2{columns:2;column-gap:2rem;padding-left:1.1rem}
 .list2 li{margin-bottom:.5rem;break-inside:avoid}
 @media (max-width:640px){.list2{columns:1}}
